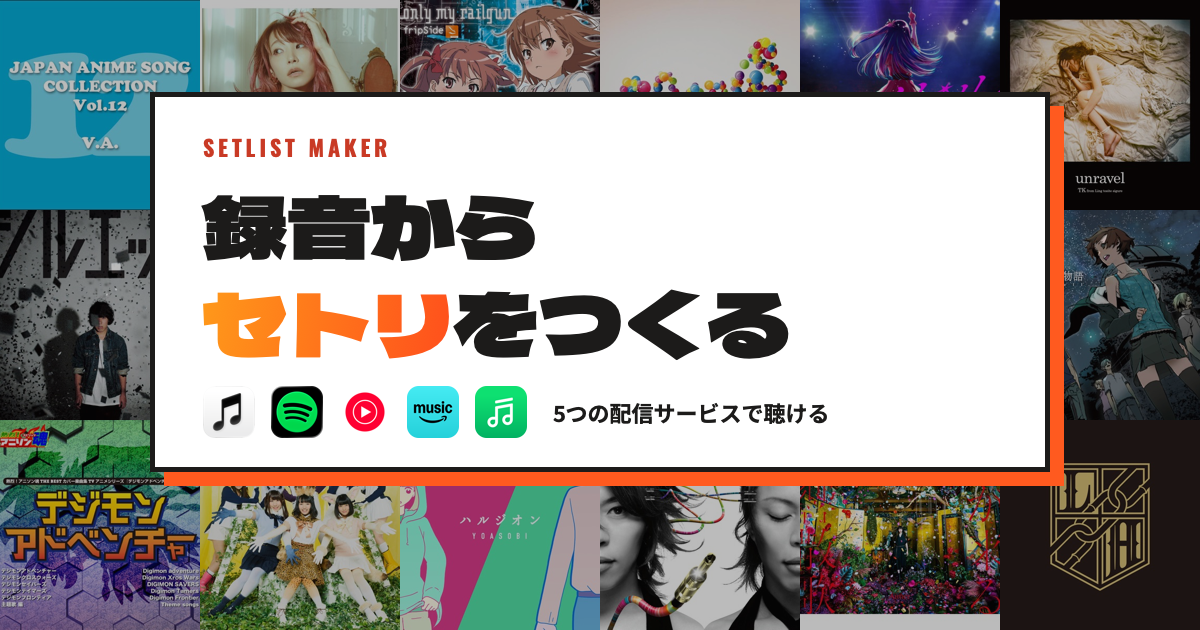
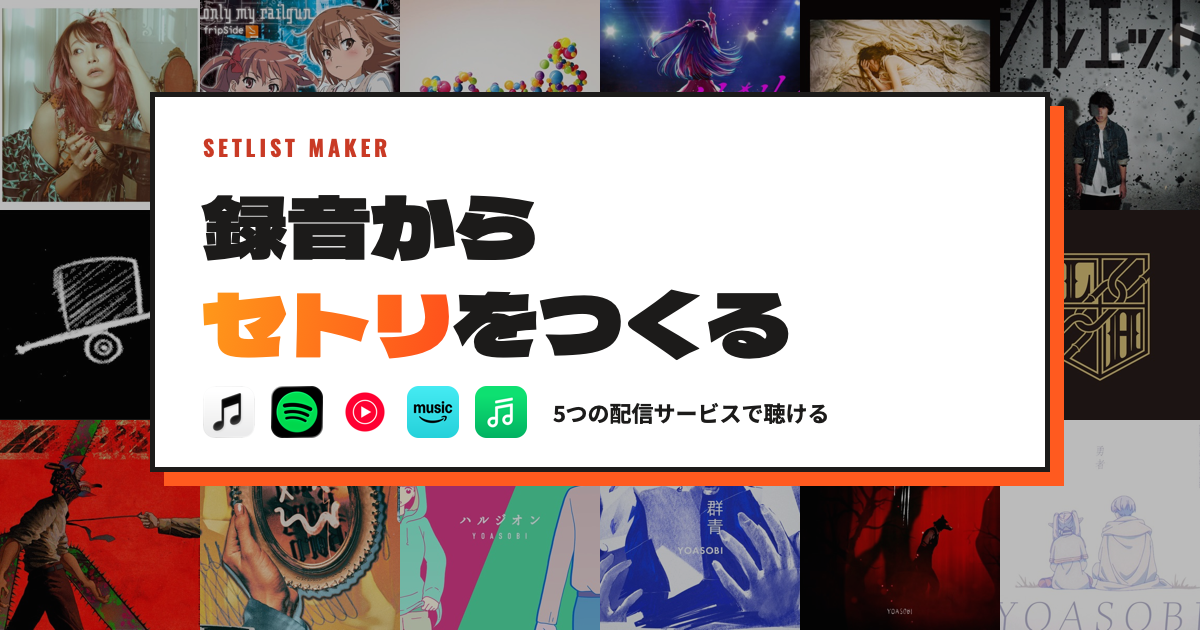
リンクカードのジャケを定番アニソンの単独盤に入れ替え（v=6）

diff --git a/index.html b/index.html
@@ -8,7 +8,7 @@
 <meta property="og:title" content="セトリメーカー｜録音からセットリストをつくる">
 <meta property="og:description" content="イベントの録音を読み込むと、時刻つきのセットリストができます。曲名を入れて、そのまま書き出せます。録音は端末の外に出ません。">
 <meta property="og:url" content="https://yukitchy.github.io/setlist-maker/">
-<meta property="og:image" content="https://yukitchy.github.io/setlist-maker/ogp.png?v=5">
+<meta property="og:image" content="https://yukitchy.github.io/setlist-maker/ogp.png?v=6">
 <meta property="og:image:width" content="1200"><meta property="og:image:height" content="630">
 <meta name="twitter:card" content="summary_large_image">
 <link rel="icon" href="favicon.svg" type="image/svg+xml">
